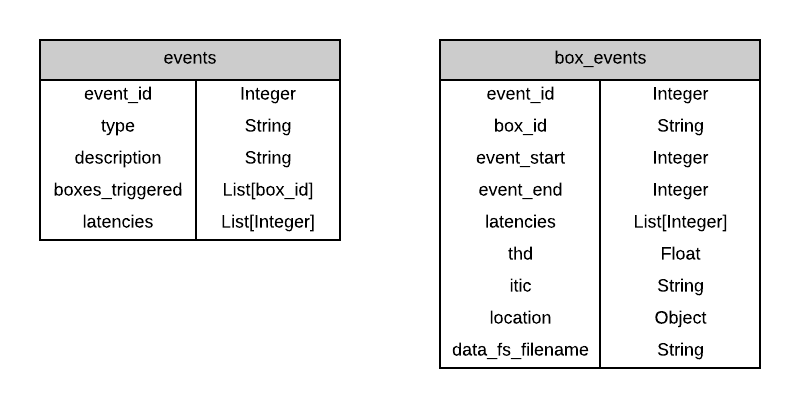
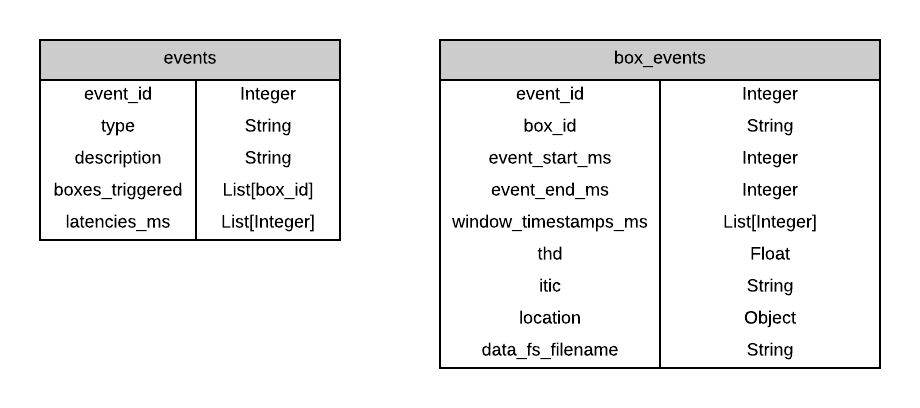
Update gitbook datamodel with new and renamed fields

diff --git a/gitbook/datamodel/description.md b/gitbook/datamodel/description.md
@@ -34,6 +34,8 @@ Each measurement document always corresponds to a single OPQBox, as indicated by
 
 The **voltage** and **frequency** fields are RMS calculations of voltage and frequency at a given moment in time, indicated by the **timestamp_ms** field.
 
+The **thd** field indicates the total harmonic distortion value for this measurement window.
+
 ### Events and Box Events
 #### Events {#events}
 The **events** collection provides events detected by the OPQ System. These documents are generated by OPQMakai after being requested by OPQMauka upon event detection.
@@ -56,7 +58,7 @@ The **description** field indicates additional information about the event (*Ser
 
 The **boxes_triggered** array is a list of all OPQBoxes associated with the given event - however it is important to note that this does not always correspond to all of the OPQBoxes for which we have received actual data from for the event.
 
-The **latencies** field provides (*Serge: Clarify on this array? Note that this was previously named "timestamps"*)
+The **latencies_ms** field is an array of timestamps (milliseconds since epoch) indicating the time when data from each OPQBox was received. Maintains a 1 to 1 correlation with boxes_received. (Update: We removed boxes_received, does it make sense to still have this field?)
 
 #### Box Events {#box_events}
 The **box_events** collection provides the event meta-data for a given OPQBox.
@@ -68,9 +70,9 @@ The **box_id** field indicates the OPQBox from which this data was produced.
 As an event can be associated with multiple OPQBoxes, it is therefore important to understand that there can be (and often are) multiple box_event documents with the same event_id.
 Together, the **event_id** and **box_id** fields are what one would query on in order to find data for a given OPQBox for a specific event.
 
-The **event_start** and **event_end** fields are unix timestamps (millis) indicating the start and end time of the event.
+The **event_start_ms** and **event_end_ms** fields are unix timestamps indicating the start and end time of the event.
 
-The **latencies** array is (*Serge: Again, could you clarify on this? Was previously named timestamps*)
+The **window_timestamps_ms** field is an array of unix timestamps that correlate with every 2000 samples (10 grid cycles) of recorded box data. This can be useful for debugging purposes, as we can determine the continuity of box data.
 
 The **thd** and **itic** fields correspond to the total harmonic distortion and ITIC values, as calculated by the OPQMauka [THD](../mauka/plugins.md#thd) and [ITIC](../mauka/plugins.md#itic) plugins.
 
@@ -115,10 +117,10 @@ The **locations** field is an *array* of objects, with each object representing 
 As an OPQBox's location can change over time, this approach is necessary in order to keep a historical reference of its location changes.
 
 A **location** <a name="location"></a> has the following fields:
-* start_time
+* start_time_ms
 * zipcode
 
-The **start_time** field is a unix timestamp (millis) indicating the moment this OPQBox location was set.
+The **start_time_ms** field is a unix timestamp (milliseconds) indicating the moment this OPQBox location was set.
 
 The **zipcode** field indicates the zipcode location of the OPQBox.
 
